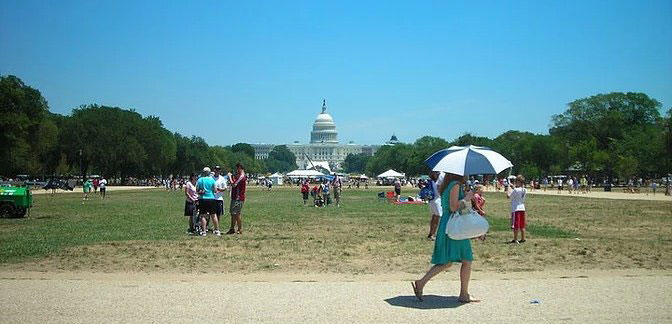
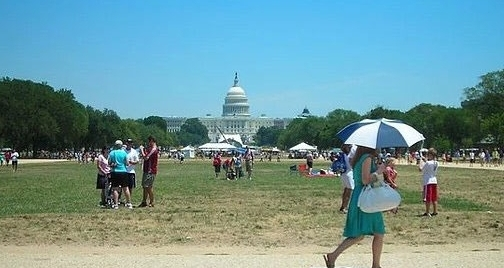
adjust the size of photo 5

diff --git a/index.html b/index.html
@@ -97,7 +97,8 @@
                                 <img src="img/pq-4.jpg" alt="Photo 1" class="photos__item photos__item-4">
                             </div>
                         </div>
-                        <div class="col-7-of-12">
+                        <div class="col-7-of-12 photos">
+                            
                             <div class="photos__frame">                               
                                 <img src="img/pq-5.jpg" alt="Photo 1" class="photos__item photos__item-5">
                             </div>

diff --git a/sass/components/_photos.scss b/sass/components/_photos.scss
@@ -19,6 +19,7 @@ Photos
        &-7 {
            margin-top: 1.2rem;
        }
+
     }
 
     &__shadow {
